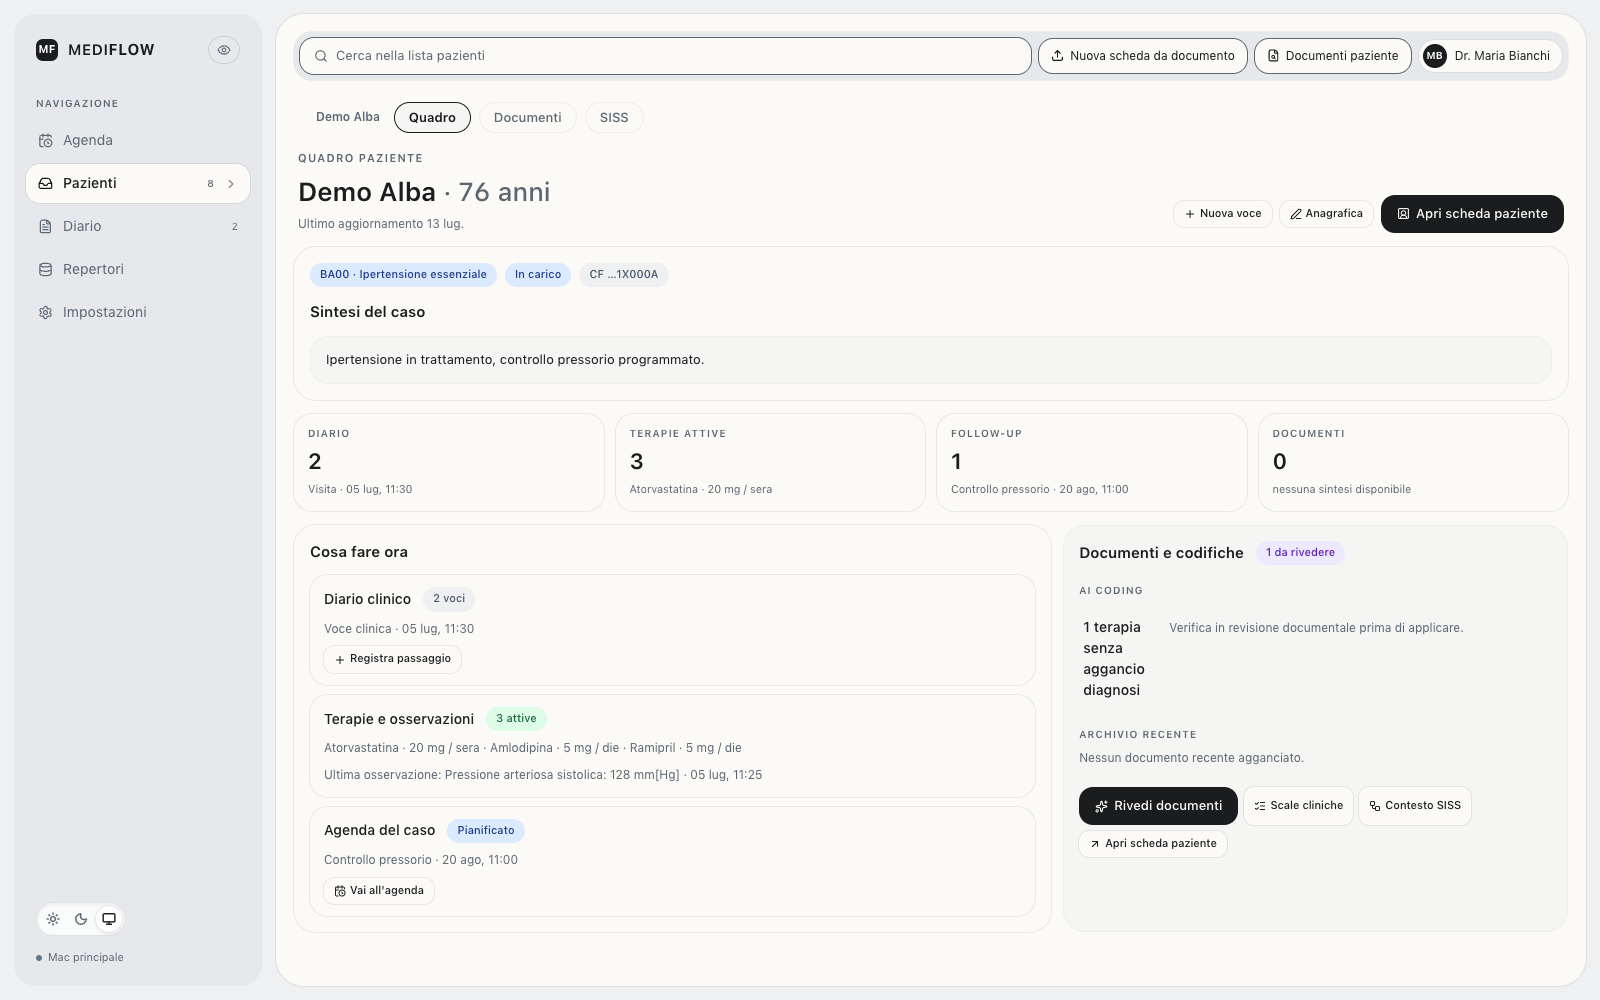
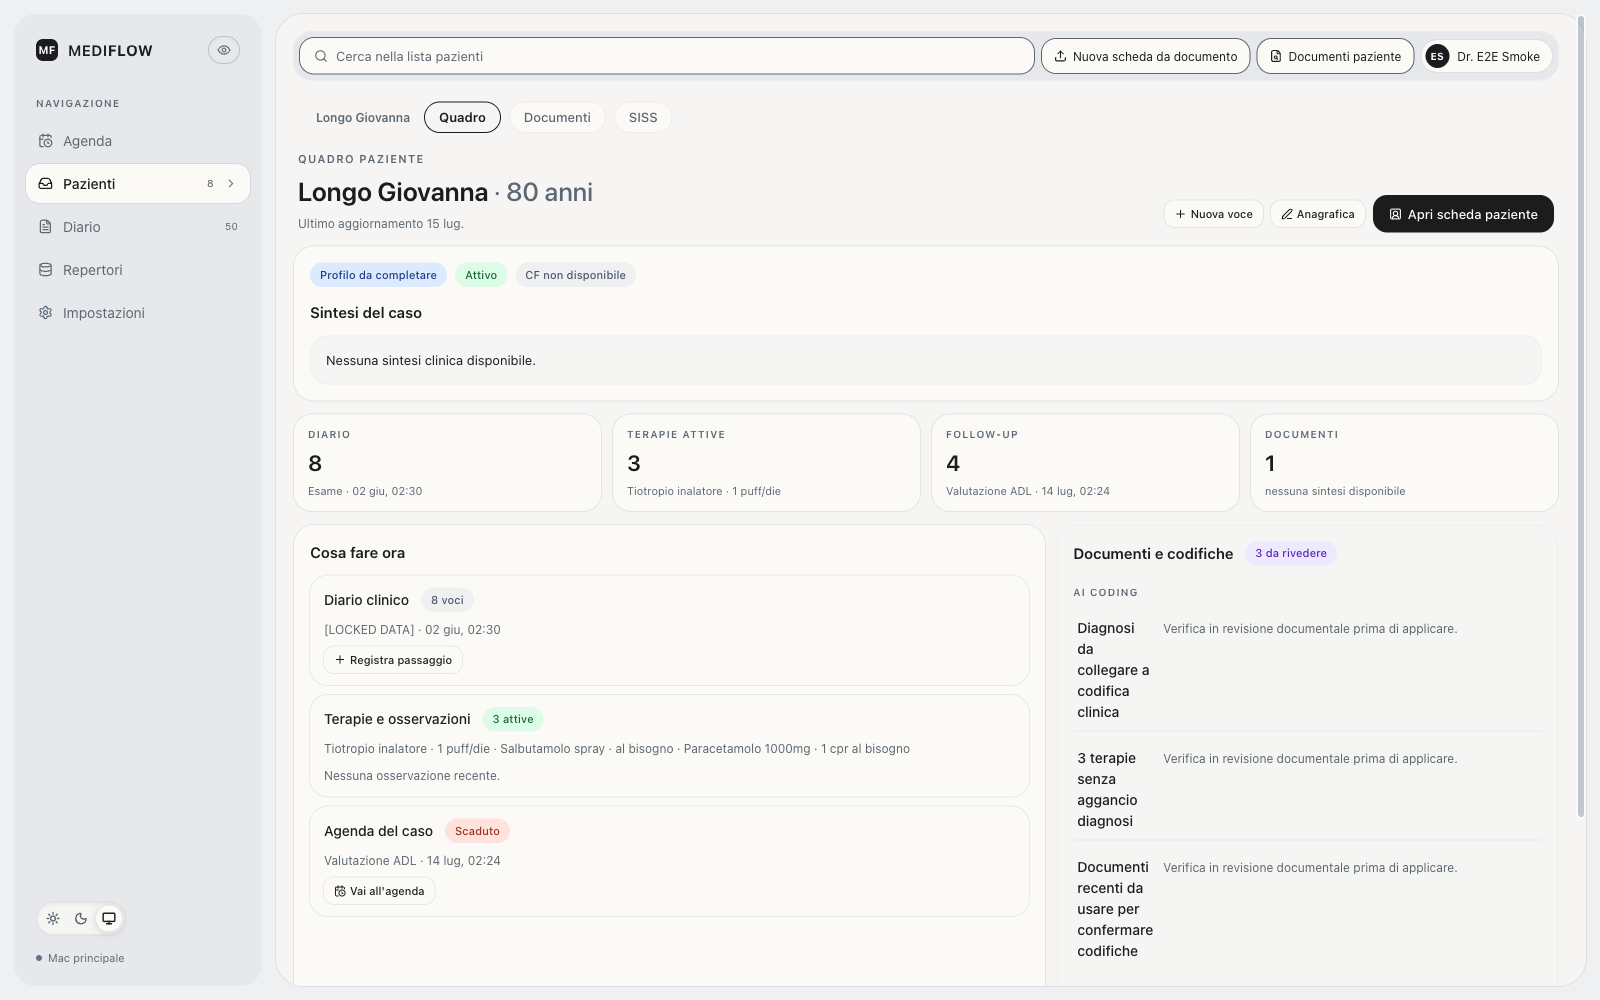
docs(ui): aggiorna screenshot Lume e conteggio token
- aggiorna le catture web e aggiunge la panoramica macOS priva di dati reali
- riallinea README, crediti e grafico allo snapshot token del 15 luglio
- verifica: check:claims, check:lume-tokens, git diff --check, xmllint

diff --git a/README.md b/README.md
@@ -45,18 +45,24 @@ sanitari, credenziali e altri artefatti locali restano fuori da Git secondo
 
 ## Come si presenta
 
+### App macOS
+
+<img src="./screenshots/macos-workspace.png" alt="Panoramica nativa di MediFlow per macOS con navigazione Lume e guardrail local-first" width="820" loading="lazy" decoding="async"/>
+
+### Web locale
+
 <img src="./screenshots/01-worklist.png" alt="Cockpit Lume di MediFlow: lista di lavoro con pazienti dimostrativi sintetici" width="820" loading="lazy" decoding="async"/>
 
-_Render reali delle superfici web che adottano Lume, la lingua visiva di
-MediFlow. Catturati dalla build di produzione con dati dimostrativi sintetici.
-Nessun dato paziente reale._
+_Catture reali dell'app macOS e della build web di produzione che adottano
+Lume, la lingua visiva di MediFlow. Le viste cliniche usano esclusivamente
+fixture dimostrative sintetiche. Nessun dato paziente reale._
 
 <details>
-<summary><b>Altre schermate</b>: scheda paziente, quadro clinico, revisione documenti e sicurezza</summary>
+<summary><b>Altre schermate web</b>: scheda paziente, quadro clinico, diario e sicurezza</summary>
 <p><img src="./screenshots/02-scheda.png" alt="Scheda paziente con moduli clinici" width="820" loading="lazy" decoding="async"/></p>
 <p><img src="./screenshots/03-quadro.png" alt="Quadro paziente nel cockpit" width="820" loading="lazy" decoding="async"/></p>
-<p><img src="./screenshots/04-review.png" alt="Revisione documenti e codifiche" width="820" loading="lazy" decoding="async"/></p>
-<p><img src="./screenshots/05-security.png" alt="Impostazioni di sicurezza locale con PIN" width="820" loading="lazy" decoding="async"/></p>
+<p><img src="./screenshots/04-review.png" alt="Diario clinico nel registro grafite di Lume" width="820" loading="lazy" decoding="async"/></p>
+<p><img src="./screenshots/05-security.png" alt="Impostazioni di accesso e sicurezza locale" width="820" loading="lazy" decoding="async"/></p>
 </details>
 
 ## Come è fatto
@@ -89,13 +95,15 @@ plane sono documentati in
 
 ## Stato 0.7.3
 
-La 0.7.3 consolida il percorso local-first avviato dalla 0.7.2. Porta Lume sulle
-prime superfici web e native, rende più modulare lo stack AI locale e rafforza
-backup, cifratura dei campi clinici, packaging e controlli sui claim pubblici.
+La 0.7.3 consolida il percorso local-first avviato dalla 0.7.2. Porta Lume
+sull'interfaccia web e sulle superfici dichiarate dell'app Apple, rende più
+modulare lo stack AI locale e rafforza backup, cifratura dei campi clinici,
+packaging e controlli sui claim pubblici.
 
-Restano aperti la migrazione completa dell'interfaccia, parte della parity dei
-client paired e il collaudo manuale P6 sul bundle macOS. Il gate verso provider
-AI esterni resta chiuso e non è consegnato alcun percorso di consenso o invio.
+Restano aperti la parity dei client paired, gli snapshot di confronto completi,
+la verifica VoiceOver e il collaudo manuale P6 sul bundle macOS. Il gate verso
+provider AI esterni resta chiuso e non è consegnato alcun percorso di consenso
+o invio.
 
 Il dettaglio è nel [CHANGELOG](./CHANGELOG.md). La fotografia completa vive in
 [`docs/STATE_OF_THE_SYSTEM.md`](./docs/STATE_OF_THE_SYSTEM.md); la parity
@@ -175,12 +183,13 @@ sviluppo assistito da AI.
 implementazione, review e verifica. Le proposte dei modelli restano materiale da
 controllare: test reali e guard automatici decidono se una modifica regge.
 
-Uno snapshot dei log locali del 13 luglio 2026 conta circa **12,34 miliardi di
-token di sessione**: 7,89 miliardi con Codex e 4,45 con Claude Code. Sono in gran
-parte contesto riletto o recuperato dalla cache; misurano il volume del lavoro
-assistito, non righe di codice o qualità.
+Uno snapshot dei log locali del 15 luglio 2026 conta circa **17,56 miliardi di
+token di sessione**: 11,33 miliardi con Codex e 6,22 con Claude Code. Circa
+16,41 miliardi sono input recuperato dalla cache; il dato misura soprattutto
+contesto riletto durante il lavoro assistito, non righe di codice, costo o
+qualità.
 
-<img src="./screenshots/token-models.svg" alt="Modelli usati per MediFlow: Codex circa 7,89 miliardi di token nelle famiglie GPT-5.2-5.6; Claude Code circa 4,45 miliardi con Opus 4.8, Fable 5, Sonnet 5 e una quota esplorativa storica di Haiku 4.5" width="720" loading="lazy"/>
+<img src="./screenshots/token-models.svg" alt="Modelli usati per MediFlow: Codex circa 11,33 miliardi di token nelle famiglie GPT-5.2-5.6; Claude Code circa 6,22 miliardi con Opus 4.8, Fable 5, Sonnet 5 e una quota storica di Haiku 4.5" width="720" loading="lazy"/>
 
 Ogni colore corrisponde a un modello o a una famiglia vicina. Le due barre usano
 la stessa scala: mostrano insieme il peso dei due ambienti e la loro composizione
@@ -188,10 +197,10 @@ interna. Non è una classifica di qualità, ma la fotografia di quali modelli ha
 assorbito più contesto durante lo sviluppo.
 
 Per Codex i log registrano anche l'effort: `xhigh` è la quota maggiore, seguito
-da `medium`, `high` e `low`. `Ultra` è mostrato a parte perché indica fan-out tra
-più agenti, non un livello di ragionamento. Nei log storici di Claude Code
-l'effort non è esposto in modo abbastanza uniforme; questa revisione del README
-è stata eseguita con Opus 4.8 a effort `max`.
+da `medium`, `high` e `low`. Le sessioni senza effort registrato restano separate
+perché possono includere fan-out `Ultra`, che non è un livello di ragionamento.
+Nei log storici di Claude Code l'effort non è esposto in modo abbastanza
+uniforme.
 
 Il conteggio precedente del README usava una metodologia diversa e non è
 direttamente confrontabile. La responsabilità del progetto resta mia.

diff --git a/CREDITS.md b/CREDITS.md
@@ -163,11 +163,11 @@ OpenAI GPT-5.2, GPT-5.3 Codex/Spark, GPT-5.4/mini, GPT-5.5 e GPT-5.6
 Sol/Terra/Luna; sul lato Anthropic, Opus 4.8, Fable 5, Sonnet 5 e una quota
 esplorativa storica di Haiku 4.5.
 
-Lo snapshot locale del 13 luglio 2026 conta circa 12,34 miliardi di token di
-sessione: 7,89 miliardi con Codex e 4,45 con Claude Code. Il dato misura il volume
-assistito, in gran parte contesto riletto o recuperato dalla cache, non righe di
-codice o qualità. Un conteggio precedente basato su una metodologia diversa non
-è direttamente confrontabile.
+Lo snapshot locale del 15 luglio 2026 conta circa 17,56 miliardi di token di
+sessione: 11,33 miliardi con Codex e 6,22 con Claude Code. Circa 16,41 miliardi
+sono input recuperato dalla cache; il dato misura soprattutto contesto riletto
+nel lavoro assistito, non righe di codice, costo o qualità. Un conteggio
+precedente basato su una metodologia diversa non è direttamente confrontabile.
 
 - **[Repo Prompt CE](https://github.com/repoprompt/repoprompt-ce)** (Eric Provencher): context engineering open source, usato in alcune sessioni per preparare selezioni e diff per gli agenti.
 - **[CodexBar](https://github.com/steipete/CodexBar)** (Peter Steinberger): visibilità locale sull'uso dei modelli e fonte del conteggio storico del README.
